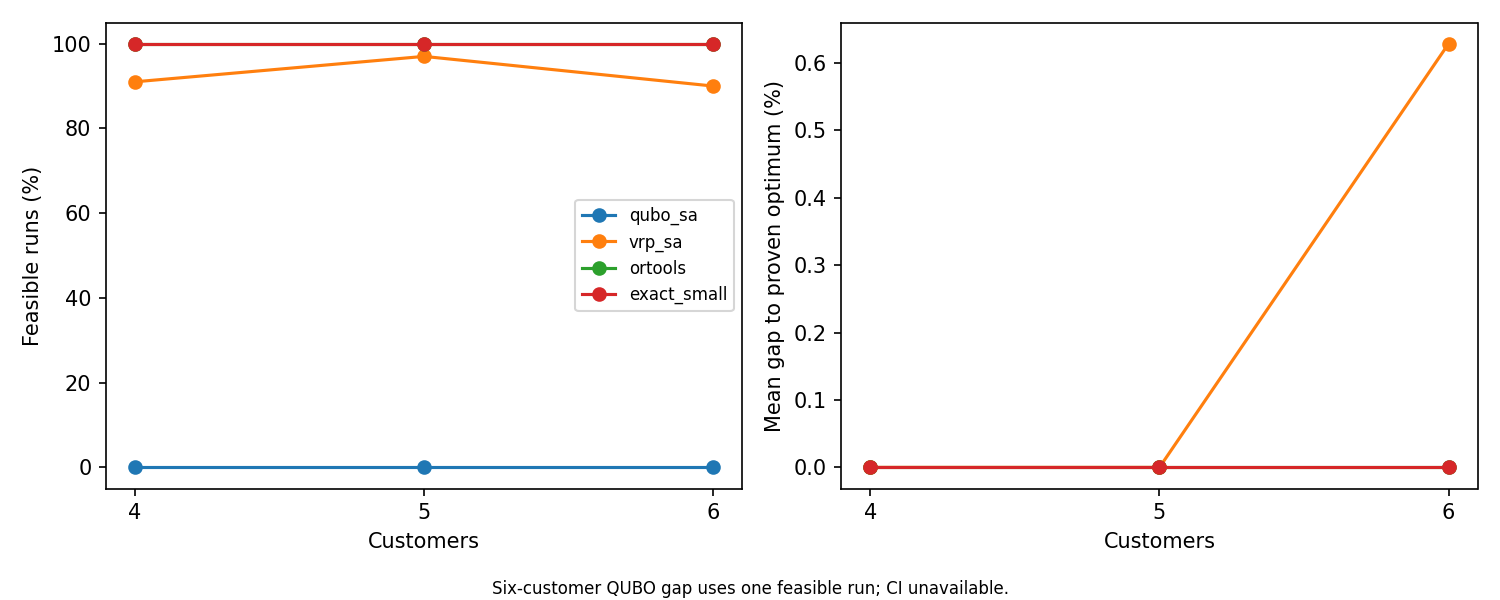
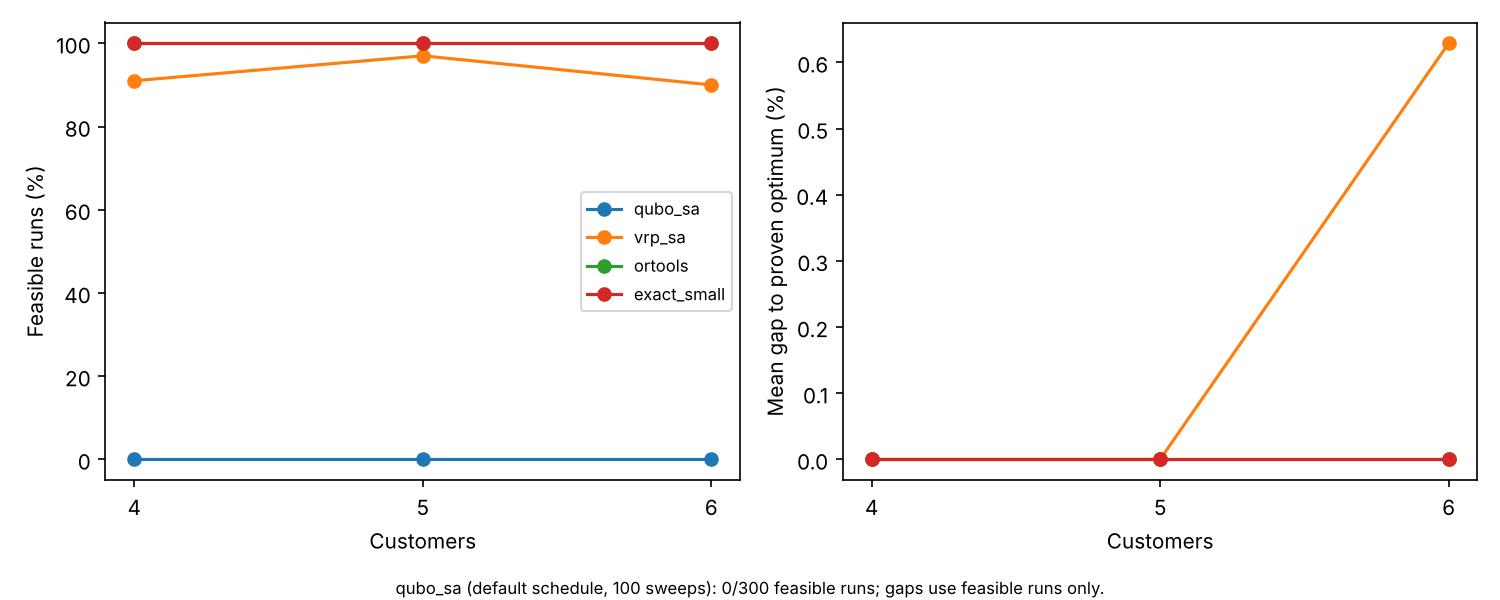
Report VRP sweep counts with Wilson intervals and feasible-run n
Percentile bootstraps of ten binary outcomes gave degenerate intervals such
as 0% [0, 0]. Feasibility and optimal hits now show k/10 with Wilson score
intervals; conditional gaps show the number of feasible runs and list the
values instead of an interval when fewer than five are feasible. Reports and
charts are rebuilt from the committed CSVs (--summary-only); the tiny chart
caption is computed from data instead of a stale hardcoded note. The VRP
summary footnote now states the fleet caveat for median gaps, the OR-Tools
strategy repetition, and what an infeasible tiny vrp_sa run means.

diff --git a/benchmarks/run_vrp_benchmarks.py b/benchmarks/run_vrp_benchmarks.py
@@ -114,7 +114,7 @@ def summarize(rows: list[dict]) -> str:
         lines.append(f"| {label if label != 'all' else group} | {size} | {solver} | {feasible}/{len(subset)} | {fleet_match}/{len(subset)} | {gap_text} | {median_all} | {routes:.2f} | "
                      f"{np.mean(runtimes):.3f} s | {runtime_range} | {effort} | "
                      f"{variable_range} |")
-    lines += ["", "For Solomon cases, the mean gap and its interval use feasible runs matching the published fleet; median gap includes every feasible run. Confidence intervals resample independent tiny instances; standard cases each have one instance, so their intervals are unavailable despite ten solver seeds. The comparison table uses a shared wall-clock limit for vrp_sa and OR-Tools."]
+    lines += ["", "For Solomon cases, the mean gap and its interval use feasible runs matching the published fleet. The median gap includes every feasible run, including runs with more vehicles than the reference; under the fleet-first Solomon objective those distances are not comparable with the reference distance. Tiny-instance gaps average per-instance means of feasible runs, and their intervals resample the ten tiny instances; standard cases each have one instance, so their intervals are unavailable despite ten solver seeds. The comparison table uses a shared wall-clock limit for vrp_sa and OR-Tools. OR-Tools seeds select one of six first-solution strategies (seed mod 6), so seeds 6–9 repeat the strategies of seeds 0–3. An infeasible tiny `vrp_sa` run means its greedy construction found no capacity-feasible start (status `construction_failed`); no annealing was run."]
     return "\n".join(lines) + "\n"
 
 
@@ -132,7 +132,10 @@ def chart(rows: list[dict]) -> None:
     for axis in axes:
         axis.set_xticks(sorted({r["size"] for r in rows if r["group"] == "tiny"}))
     axes[0].legend(fontsize=8)
-    fig.text(.5, .01, "Six-customer QUBO gap uses one feasible run; CI unavailable.", ha="center", fontsize=8)
+    qubo_feasible = sum(int(r["feasible"]) for r in rows if r["group"] == "tiny" and r["solver"] == "qubo_sa")
+    qubo_total = sum(1 for r in rows if r["group"] == "tiny" and r["solver"] == "qubo_sa")
+    fig.text(.5, .01, f"qubo_sa (default schedule, 100 sweeps): {qubo_feasible}/{qubo_total} feasible runs; "
+             "gaps use feasible runs only.", ha="center", fontsize=8)
     fig.tight_layout(rect=(0, .04, 1, 1))
     target = ROOT / "docs" / "vrp_benchmark.png"
     target.parent.mkdir(exist_ok=True)
@@ -189,37 +192,78 @@ def run_qubo_budget_sweep(sizes=(4, 5, 6), sweeps=(100, 500, 2000, 10000),
         writer = csv.DictWriter(f, fieldnames=list(rows[0]))
         writer.writeheader()
         writer.writerows(rows)
+    write_sweep_report(rows)
+    return rows
+
+
+def wilson_interval(successes: int, trials: int, z: float = 1.959964) -> tuple[float, float]:
+    """Wilson score interval for a binomial proportion."""
+    if trials <= 0:
+        raise ValueError("trials must be positive")
+    p = successes / trials
+    denominator = 1 + z * z / trials
+    centre = (p + z * z / (2 * trials)) / denominator
+    half = z * np.sqrt(p * (1 - p) / trials + z * z / (4 * trials * trials)) / denominator
+    return max(0.0, centre - half), min(1.0, centre + half)
+
+
+def _count_cell(count: int, total: int) -> str:
+    low, high = wilson_interval(count, total)
+    return f"{count}/{total} [{100*low:.0f}, {100*high:.0f}]"
+
+
+def _gap_cell(gaps: list[float], seed: int) -> str:
+    """Bootstrap only with at least five feasible instances; otherwise list the values."""
+    if not gaps:
+        return "n/a (0 feasible)"
+    if len(gaps) < 5:
+        values = ", ".join(f"{g:.1f}" for g in sorted(gaps))
+        return f"{np.mean(gaps):.1f}% (n={len(gaps)}: {values}; no CI)"
+    stat = _bootstrap_mean(gaps, seed)
+    return f"{stat[0]:.1f}% (n={len(gaps)}) [{stat[1]:.1f}, {stat[2]:.1f}]"
+
+
+def write_sweep_report(rows: list[dict]) -> str:
+    """Write the sweep markdown and chart from raw sweep rows."""
+    sizes = sorted({int(r["size"]) for r in rows})
+    sweeps = sorted({int(r["sweeps_per_variable"]) for r in rows})
+    schedules = ("coefficient_scaled_linear", "penalty_scaled_geometric")
     report = ["# Tiny CVRP QUBO budget and schedule sweep", "",
-              "Ten independent random instances per size; five use tight and five use loose capacity. One annealer seed is used per instance and cell; confidence intervals bootstrap independent instances, not repeated solver seeds. Every reference was CP-SAT proven optimal. Gaps are conditional on feasible runs.", "",
-              "| Customers | Sweeps / variable | Schedule | Feasible [95% CI] | Optimal hits [95% CI] | Mean gap on feasible [95% CI] | Variables | Mean flips | Mean runtime |",
+              "Ten random instances per size (instance seeds 203100–203109; the same seed is reused across sizes, so instances are independent within a size, not across sizes); five use tight and five use loose capacity. One annealer seed is used per instance and cell, so each cell has ten independent binary outcomes. Feasible and optimal-hit columns show counts with 95% Wilson score intervals. Every reference was CP-SAT proven optimal.", "",
+              "Gaps are conditional on feasibility: they average only the feasible runs, whose number `n` is shown, so a cell with few feasible runs is not comparable with one with many. With fewer than five feasible runs the individual gaps are listed and no interval is given; otherwise the interval is a 95% percentile bootstrap over the feasible instances.", "",
+              "| Customers | Sweeps / variable | Schedule | Feasible [95% Wilson] | Optimal hits [95% Wilson] | Mean gap on feasible runs | Variables | Mean flips | Mean runtime |",
               "| ---: | ---: | --- | ---: | ---: | ---: | ---: | ---: | ---: |"]
     summary_rows = []
     for size in sizes:
         for budget in sweeps:
             for schedule in schedules:
-                cell = [r for r in rows if r["size"] == size and r["sweeps_per_variable"] == budget and r["schedule"] == schedule]
-                feas = _bootstrap_mean([float(r["feasible"]) for r in cell], 7700 + size + budget)
-                hit = _bootstrap_mean([float(r["optimal_hit"]) for r in cell], 8800 + size + budget)
+                cell = [r for r in rows if int(r["size"]) == size and int(r["sweeps_per_variable"]) == budget
+                        and r["schedule"] == schedule]
+                if not cell:
+                    continue
+                feasible = sum(int(r["feasible"]) for r in cell)
+                hits = sum(int(r["optimal_hit"]) for r in cell)
                 gaps = [float(r["gap_percent"]) for r in cell if r["gap_percent"] != ""]
-                gap = _bootstrap_mean(gaps, 9900 + size + budget)
-                def format_ci(stat):
-                    if stat is None: return "n/a"
-                    if not np.isfinite(stat[1]): return f"{100*stat[0]:.1f}% [CI unavailable]"
-                    return f"{100*stat[0]:.1f}% [{100*stat[1]:.1f}, {100*stat[2]:.1f}]"
                 variables = sorted({int(r["variable_count"]) for r in cell})
                 var_text = str(variables[0]) if len(variables) == 1 else f"{variables[0]}–{variables[-1]}"
+                attempts = np.mean([float(r["attempts"]) for r in cell])
+                runtime = np.mean([float(r["runtime_seconds"]) for r in cell])
                 summary_rows.append({"size": size, "sweeps": budget, "schedule": schedule,
-                                     "feasibility": feas, "optimal_hit": hit, "gap": gap,
-                                     "variables": var_text,
-                                     "mean_attempts": float(np.mean([r["attempts"] for r in cell])),
-                                     "mean_runtime": float(np.mean([r["runtime_seconds"] for r in cell]))})
-                report.append(f"| {size} | {budget} | {schedule} | {format_ci(feas)} | {format_ci(hit)} | "
-                              f"{(format_ci((gap[0]/100,gap[1]/100,gap[2]/100)) if gap else 'n/a')} | "
-                              f"{var_text} | {np.mean([r['attempts'] for r in cell]):.0f} | "
-                              f"{np.mean([r['runtime_seconds'] for r in cell]):.3f} s |")
-    (OUT / "vrp_qubo_budget_sweep.md").write_text("\n".join(report) + "\n", encoding="utf-8")
+                                     "feasible": feasible, "total": len(cell),
+                                     "gap": float(np.mean(gaps)) if gaps else None})
+                report.append(f"| {size} | {budget} | {schedule} | {_count_cell(feasible, len(cell))} | "
+                              f"{_count_cell(hits, len(cell))} | {_gap_cell(gaps, 9900 + size + budget)} | "
+                              f"{var_text} | {attempts:.0f} | {runtime:.3f} s |")
+    text = "\n".join(report) + "\n"
+    (OUT / "vrp_qubo_budget_sweep.md").write_text(text, encoding="utf-8")
     _sweep_chart(summary_rows)
-    return rows
+    return text
+
+
+def regenerate_sweep_report(path: Path = OUT / "vrp_qubo_budget_sweep.csv") -> str:
+    """Rebuild the sweep markdown and chart from the saved CSV."""
+    with path.open(newline="", encoding="utf-8") as stream:
+        return write_sweep_report(list(csv.DictReader(stream)))
 
 
 def _sweep_chart(summary_rows: list[dict]) -> None:
@@ -230,19 +274,27 @@ def _sweep_chart(summary_rows: list[dict]) -> None:
             subset = sorted((r for r in summary_rows if r["size"] == size and r["schedule"] == schedule),
                             key=lambda r: r["sweeps"])
             label = f"n={size}, {schedule}"
-            axes[0].plot([r["sweeps"] for r in subset], [100*r["feasibility"][0] for r in subset],
-                         marker="o", color=colors[schedule], linestyle="-" if size == 4 else "--" if size == 5 else ":", label=label)
-            axes[1].plot([r["sweeps"] for r in subset], [r["gap"][0] if r["gap"] else np.nan for r in subset],
-                         marker="o", color=colors[schedule], linestyle="-" if size == 4 else "--" if size == 5 else ":", label=label)
+            style = "-" if size == 4 else "--" if size == 5 else ":"
+            axes[0].plot([r["sweeps"] for r in subset], [r["feasible"] for r in subset],
+                         marker="o", color=colors[schedule], linestyle=style, label=label)
+            axes[1].plot([r["sweeps"] for r in subset], [r["gap"] if r["gap"] is not None else np.nan for r in subset],
+                         marker="o", color=colors[schedule], linestyle=style, label=label)
+            for r in subset:
+                if r["gap"] is not None:
+                    axes[1].annotate(str(r["feasible"]), (r["sweeps"], r["gap"]), fontsize=6,
+                                     textcoords="offset points", xytext=(3, 3))
     for axis in axes:
         axis.set_xscale("log")
         axis.set_xlabel("Sweeps per variable")
         axis.grid(True, alpha=.3)
         axis.legend(fontsize=6)
-    axes[0].set_ylabel("Feasible instances (%)")
-    axes[0].set_ylim(-5, 105)
+    total = max(r["total"] for r in summary_rows)
+    axes[0].set_ylabel(f"Feasible instances (of {total})")
+    axes[0].set_ylim(-0.5, total + 0.5)
     axes[1].set_ylabel("Mean gap on feasible runs (%)")
-    fig.tight_layout()
+    fig.text(.5, .01, "Right panel: labels give the number of feasible runs behind each mean; gaps condition on feasibility.",
+             ha="center", fontsize=8)
+    fig.tight_layout(rect=(0, .04, 1, 1))
     fig.savefig(ROOT / "docs" / "vrp_qubo_budget_sweep.png", dpi=150)
     plt.close(fig)
 
@@ -329,14 +381,17 @@ def regenerate_summary(path: Path = OUT / "vrp_raw.csv") -> str:
                 row[key] = float(row[key])
     report = summarize(rows)
     (OUT / "vrp_summary.md").write_text(report, encoding="utf-8")
+    chart(rows)
     return report
 
 
 if __name__ == "__main__":
     import argparse
     parser = argparse.ArgumentParser()
-    parser.add_argument("--summary-only", action="store_true")
+    parser.add_argument("--summary-only", action="store_true",
+                        help="rebuild vrp_summary.md, the QUBO sweep report and both charts from saved CSVs")
     if parser.parse_args().summary_only:
         print(regenerate_summary())
+        print(regenerate_sweep_report())
     else:
         run()

diff --git a/tests/test_vrp.py b/tests/test_vrp.py
@@ -127,3 +127,12 @@ def test_benchmark_seed_separation_and_summary():
                  gap_percent=10.0, routes=2, runtime_seconds=.2, attempts=400, variable_count="")]
     summary = summarize(rows)
     assert "5.00%" in summary and "2/2" in summary
+
+
+def test_wilson_interval_for_small_counts():
+    from benchmarks.run_vrp_benchmarks import wilson_interval
+
+    low, high = wilson_interval(0, 10)
+    assert low == 0.0 and abs(high - 0.2775) < 1e-3
+    low, high = wilson_interval(9, 10)
+    assert abs(low - 0.5958) < 1e-3 and abs(high - 0.9821) < 1e-3

diff --git a/benchmarks/results/vrp_qubo_budget_sweep.md b/benchmarks/results/vrp_qubo_budget_sweep.md
@@ -1,30 +1,32 @@
 # Tiny CVRP QUBO budget and schedule sweep
 
-Ten independent random instances per size; five use tight and five use loose capacity. One annealer seed is used per instance and cell; confidence intervals bootstrap independent instances, not repeated solver seeds. Every reference was CP-SAT proven optimal. Gaps are conditional on feasible runs.
+Ten random instances per size (instance seeds 203100–203109; the same seed is reused across sizes, so instances are independent within a size, not across sizes); five use tight and five use loose capacity. One annealer seed is used per instance and cell, so each cell has ten independent binary outcomes. Feasible and optimal-hit columns show counts with 95% Wilson score intervals. Every reference was CP-SAT proven optimal.
 
-| Customers | Sweeps / variable | Schedule | Feasible [95% CI] | Optimal hits [95% CI] | Mean gap on feasible [95% CI] | Variables | Mean flips | Mean runtime |
+Gaps are conditional on feasibility: they average only the feasible runs, whose number `n` is shown, so a cell with few feasible runs is not comparable with one with many. With fewer than five feasible runs the individual gaps are listed and no interval is given; otherwise the interval is a 95% percentile bootstrap over the feasible instances.
+
+| Customers | Sweeps / variable | Schedule | Feasible [95% Wilson] | Optimal hits [95% Wilson] | Mean gap on feasible runs | Variables | Mean flips | Mean runtime |
 | ---: | ---: | --- | ---: | ---: | ---: | ---: | ---: | ---: |
-| 4 | 100 | coefficient_scaled_linear | 0.0% [0.0, 0.0] | 0.0% [0.0, 0.0] | n/a | 44–48 | 4660 | 0.067 s |
-| 4 | 100 | penalty_scaled_geometric | 20.0% [0.0, 50.0] | 0.0% [0.0, 0.0] | 46.9% [38.5, 55.3] | 44–48 | 4660 | 0.068 s |
-| 4 | 500 | coefficient_scaled_linear | 0.0% [0.0, 0.0] | 0.0% [0.0, 0.0] | n/a | 44–48 | 23300 | 0.317 s |
-| 4 | 500 | penalty_scaled_geometric | 30.0% [0.0, 60.0] | 10.0% [0.0, 30.0] | 41.4% [0.0, 80.0] | 44–48 | 23300 | 0.327 s |
-| 4 | 2000 | coefficient_scaled_linear | 10.0% [0.0, 30.0] | 10.0% [0.0, 30.0] | 0.0% [CI unavailable] | 44–48 | 93200 | 1.261 s |
-| 4 | 2000 | penalty_scaled_geometric | 80.0% [50.0, 100.0] | 50.0% [20.0, 80.0] | 21.6% [2.5, 46.9] | 44–48 | 93200 | 1.300 s |
-| 4 | 10000 | coefficient_scaled_linear | 10.0% [0.0, 30.0] | 10.0% [0.0, 30.0] | 0.0% [CI unavailable] | 44–48 | 466000 | 6.327 s |
-| 4 | 10000 | penalty_scaled_geometric | 90.0% [70.0, 100.0] | 50.0% [20.0, 80.0] | 12.6% [2.2, 24.1] | 44–48 | 466000 | 6.522 s |
-| 5 | 100 | coefficient_scaled_linear | 0.0% [0.0, 0.0] | 0.0% [0.0, 0.0] | n/a | 66–68 | 6700 | 0.094 s |
-| 5 | 100 | penalty_scaled_geometric | 10.0% [0.0, 30.0] | 0.0% [0.0, 0.0] | 29.4% [CI unavailable] | 66–68 | 6700 | 0.092 s |
-| 5 | 500 | coefficient_scaled_linear | 0.0% [0.0, 0.0] | 0.0% [0.0, 0.0] | n/a | 66–68 | 33500 | 0.450 s |
-| 5 | 500 | penalty_scaled_geometric | 20.0% [0.0, 50.0] | 10.0% [0.0, 30.0] | 14.7% [0.0, 29.4] | 66–68 | 33500 | 0.481 s |
-| 5 | 2000 | coefficient_scaled_linear | 0.0% [0.0, 0.0] | 0.0% [0.0, 0.0] | n/a | 66–68 | 134000 | 1.846 s |
-| 5 | 2000 | penalty_scaled_geometric | 20.0% [0.0, 50.0] | 10.0% [0.0, 30.0] | 4.2% [0.0, 8.4] | 66–68 | 134000 | 1.895 s |
-| 5 | 10000 | coefficient_scaled_linear | 0.0% [0.0, 0.0] | 0.0% [0.0, 0.0] | n/a | 66–68 | 670000 | 9.111 s |
-| 5 | 10000 | penalty_scaled_geometric | 70.0% [40.0, 100.0] | 20.0% [0.0, 50.0] | 23.9% [10.0, 38.2] | 66–68 | 670000 | 9.333 s |
-| 6 | 100 | coefficient_scaled_linear | 0.0% [0.0, 0.0] | 0.0% [0.0, 0.0] | n/a | 90–92 | 9100 | 0.128 s |
-| 6 | 100 | penalty_scaled_geometric | 0.0% [0.0, 0.0] | 0.0% [0.0, 0.0] | n/a | 90–92 | 9100 | 0.139 s |
-| 6 | 500 | coefficient_scaled_linear | 0.0% [0.0, 0.0] | 0.0% [0.0, 0.0] | n/a | 90–92 | 45500 | 0.646 s |
-| 6 | 500 | penalty_scaled_geometric | 10.0% [0.0, 30.0] | 0.0% [0.0, 0.0] | 51.7% [CI unavailable] | 90–92 | 45500 | 0.652 s |
-| 6 | 2000 | coefficient_scaled_linear | 0.0% [0.0, 0.0] | 0.0% [0.0, 0.0] | n/a | 90–92 | 182000 | 2.537 s |
-| 6 | 2000 | penalty_scaled_geometric | 30.0% [0.0, 60.0] | 0.0% [0.0, 0.0] | 39.3% [24.6, 63.2] | 90–92 | 182000 | 2.593 s |
-| 6 | 10000 | coefficient_scaled_linear | 0.0% [0.0, 0.0] | 0.0% [0.0, 0.0] | n/a | 90–92 | 910000 | 12.534 s |
-| 6 | 10000 | penalty_scaled_geometric | 30.0% [0.0, 60.0] | 0.0% [0.0, 0.0] | 18.7% [7.9, 37.7] | 90–92 | 910000 | 12.887 s |
+| 4 | 100 | coefficient_scaled_linear | 0/10 [0, 28] | 0/10 [0, 28] | n/a (0 feasible) | 44–48 | 4660 | 0.067 s |
+| 4 | 100 | penalty_scaled_geometric | 2/10 [6, 51] | 0/10 [0, 28] | 46.9% (n=2: 38.5, 55.3; no CI) | 44–48 | 4660 | 0.068 s |
+| 4 | 500 | coefficient_scaled_linear | 0/10 [0, 28] | 0/10 [0, 28] | n/a (0 feasible) | 44–48 | 23300 | 0.317 s |
+| 4 | 500 | penalty_scaled_geometric | 3/10 [11, 60] | 1/10 [2, 40] | 41.4% (n=3: 0.0, 44.3, 80.0; no CI) | 44–48 | 23300 | 0.327 s |
+| 4 | 2000 | coefficient_scaled_linear | 1/10 [2, 40] | 1/10 [2, 40] | 0.0% (n=1: 0.0; no CI) | 44–48 | 93200 | 1.261 s |
+| 4 | 2000 | penalty_scaled_geometric | 8/10 [49, 94] | 5/10 [24, 76] | 21.6% (n=8) [2.5, 46.9] | 44–48 | 93200 | 1.300 s |
+| 4 | 10000 | coefficient_scaled_linear | 1/10 [2, 40] | 1/10 [2, 40] | 0.0% (n=1: 0.0; no CI) | 44–48 | 466000 | 6.327 s |
+| 4 | 10000 | penalty_scaled_geometric | 9/10 [60, 98] | 5/10 [24, 76] | 12.6% (n=9) [2.2, 24.1] | 44–48 | 466000 | 6.522 s |
+| 5 | 100 | coefficient_scaled_linear | 0/10 [0, 28] | 0/10 [0, 28] | n/a (0 feasible) | 66–68 | 6700 | 0.094 s |
+| 5 | 100 | penalty_scaled_geometric | 1/10 [2, 40] | 0/10 [0, 28] | 29.4% (n=1: 29.4; no CI) | 66–68 | 6700 | 0.092 s |
+| 5 | 500 | coefficient_scaled_linear | 0/10 [0, 28] | 0/10 [0, 28] | n/a (0 feasible) | 66–68 | 33500 | 0.450 s |
+| 5 | 500 | penalty_scaled_geometric | 2/10 [6, 51] | 1/10 [2, 40] | 14.7% (n=2: 0.0, 29.4; no CI) | 66–68 | 33500 | 0.481 s |
+| 5 | 2000 | coefficient_scaled_linear | 0/10 [0, 28] | 0/10 [0, 28] | n/a (0 feasible) | 66–68 | 134000 | 1.846 s |
+| 5 | 2000 | penalty_scaled_geometric | 2/10 [6, 51] | 1/10 [2, 40] | 4.2% (n=2: 0.0, 8.4; no CI) | 66–68 | 134000 | 1.895 s |
+| 5 | 10000 | coefficient_scaled_linear | 0/10 [0, 28] | 0/10 [0, 28] | n/a (0 feasible) | 66–68 | 670000 | 9.111 s |
+| 5 | 10000 | penalty_scaled_geometric | 7/10 [40, 89] | 2/10 [6, 51] | 23.9% (n=7) [10.0, 38.2] | 66–68 | 670000 | 9.333 s |
+| 6 | 100 | coefficient_scaled_linear | 0/10 [0, 28] | 0/10 [0, 28] | n/a (0 feasible) | 90–92 | 9100 | 0.128 s |
+| 6 | 100 | penalty_scaled_geometric | 0/10 [0, 28] | 0/10 [0, 28] | n/a (0 feasible) | 90–92 | 9100 | 0.139 s |
+| 6 | 500 | coefficient_scaled_linear | 0/10 [0, 28] | 0/10 [0, 28] | n/a (0 feasible) | 90–92 | 45500 | 0.646 s |
+| 6 | 500 | penalty_scaled_geometric | 1/10 [2, 40] | 0/10 [0, 28] | 51.7% (n=1: 51.7; no CI) | 90–92 | 45500 | 0.652 s |
+| 6 | 2000 | coefficient_scaled_linear | 0/10 [0, 28] | 0/10 [0, 28] | n/a (0 feasible) | 90–92 | 182000 | 2.537 s |
+| 6 | 2000 | penalty_scaled_geometric | 3/10 [11, 60] | 0/10 [0, 28] | 39.3% (n=3: 24.6, 30.1, 63.2; no CI) | 90–92 | 182000 | 2.593 s |
+| 6 | 10000 | coefficient_scaled_linear | 0/10 [0, 28] | 0/10 [0, 28] | n/a (0 feasible) | 90–92 | 910000 | 12.534 s |
+| 6 | 10000 | penalty_scaled_geometric | 3/10 [11, 60] | 0/10 [0, 28] | 18.7% (n=3: 7.9, 10.6, 37.7; no CI) | 90–92 | 910000 | 12.887 s |

diff --git a/benchmarks/results/vrp_summary.md b/benchmarks/results/vrp_summary.md
@@ -29,4 +29,4 @@ Tiny references are CP-SAT proven optima for each generated instance. Standard r
 | tiny | 6 | qubo_sa | 0/100 | 0/100 | n/a | n/a | nan | 0.137 s | 0.133–0.152 s | 9120 | 90–92 |
 | tiny | 6 | vrp_sa | 90/100 | 90/100 | 0.63% [0.00, 1.89] | 0.00% | 1.44 | 0.180 s | 0.000–0.200 s | 3137 | — |
 
-For Solomon cases, the mean gap and its interval use feasible runs matching the published fleet; median gap includes every feasible run. Confidence intervals resample independent tiny instances; standard cases each have one instance, so their intervals are unavailable despite ten solver seeds. The comparison table uses a shared wall-clock limit for vrp_sa and OR-Tools.
+For Solomon cases, the mean gap and its interval use feasible runs matching the published fleet. The median gap includes every feasible run, including runs with more vehicles than the reference; under the fleet-first Solomon objective those distances are not comparable with the reference distance. Tiny-instance gaps average per-instance means of feasible runs, and their intervals resample the ten tiny instances; standard cases each have one instance, so their intervals are unavailable despite ten solver seeds. The comparison table uses a shared wall-clock limit for vrp_sa and OR-Tools. OR-Tools seeds select one of six first-solution strategies (seed mod 6), so seeds 6–9 repeat the strategies of seeds 0–3. An infeasible tiny `vrp_sa` run means its greedy construction found no capacity-feasible start (status `construction_failed`); no annealing was run.
